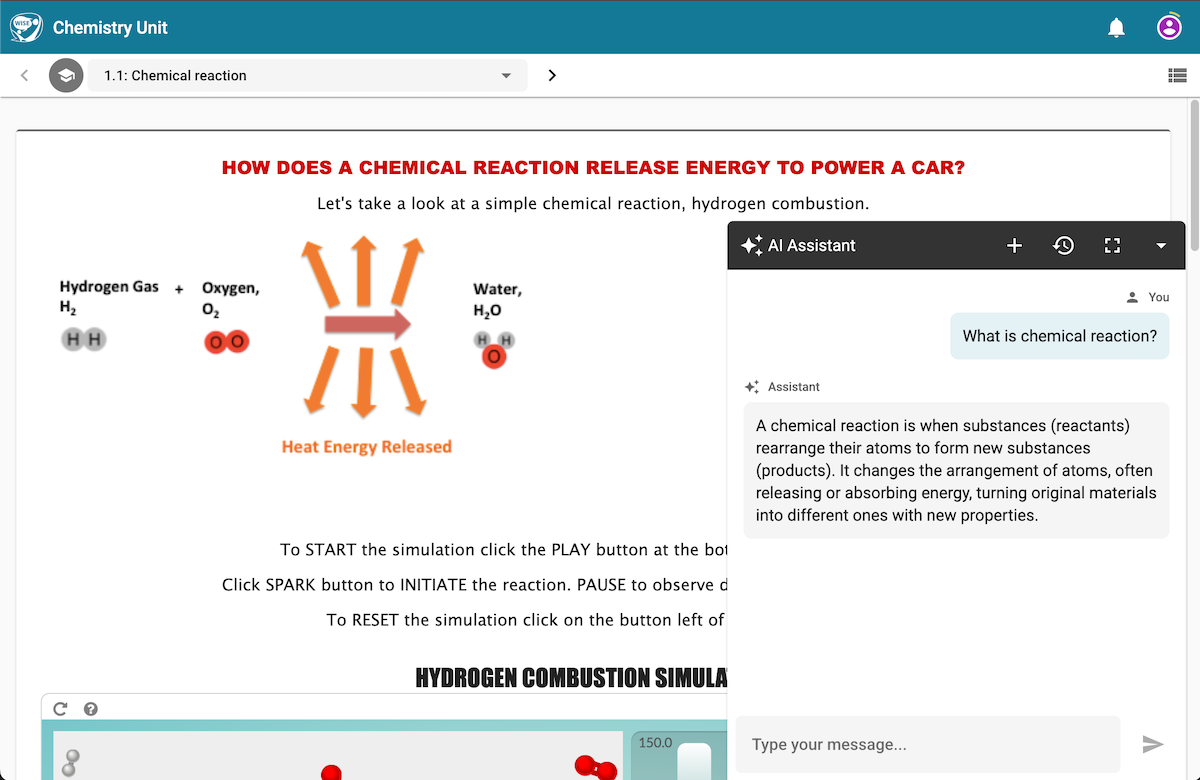
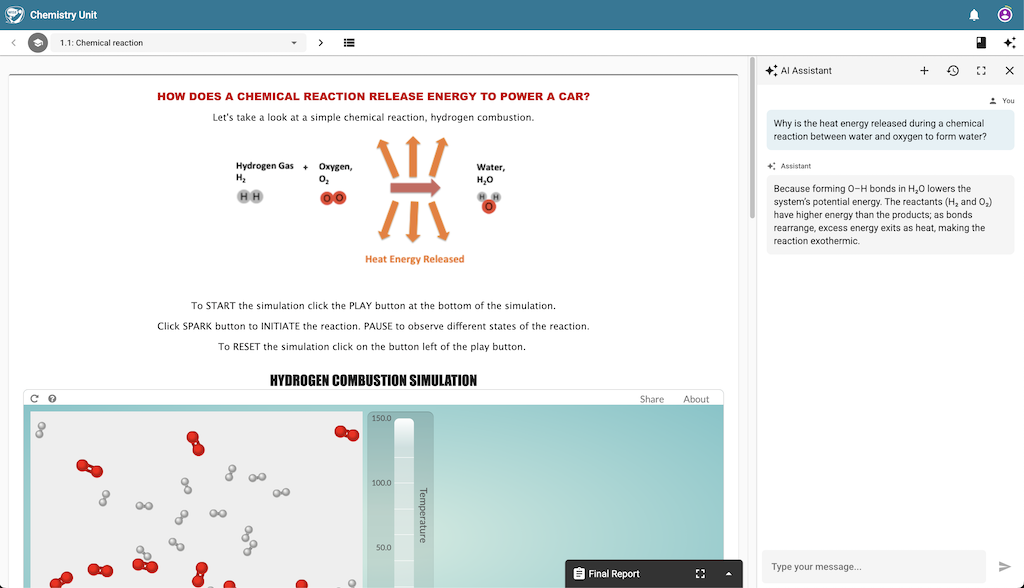
Updated AI Assistant page with new screenshot and text updates

diff --git a/user/feature/ai-assistant/index.md b/user/feature/ai-assistant/index.md
@@ -7,10 +7,10 @@ description: 'Learn how to use the persistent AI Assistant in WISE.'
 
 # Introduction
 
-The WISE AI Assistant is a powerful tool designed to help you navigate your curriculum, brainstorm ideas, and ask questions directly within the platform. The assistant is **persistent** and will be **context-aware** in the future.
+The WISE AI Assistant is a tool designed to help you navigate your curriculum, brainstorm ideas, and ask questions directly within the platform. The assistant is **persistent** and will be **context-aware** in the future.
 
 ![AI Assistant](assistant.png)
-_The AI Assistant is available in the sidebar and can be collapsed and expanded._
+_The AI Assistant is available in the sidebar and can be toggled on and off, and expanded to take up the entire screen._
 
 ## Key Features
 
@@ -18,13 +18,9 @@ _The AI Assistant is available in the sidebar and can be collapsed and expanded.
 
 The assistant is globally available in the sidebar, so you can keep the conversation going as you work on the unit. You can start a new conversation or switch to an existing conversation.
 
-Your chats are automatically saved to your account. This means you can start a conversation on one device and pick it up exactly where you left off on another. You never have to worry about losing your progress or the assistant's previous explanations.
+Your chats are automatically saved to your account. You don't need to worry about losing your progress or the assistant's previous explanations.
 
-### 2. Context Awareness (Future)
-
-The assistant knows which part of the curriculum you are currently working on. When you ask a question, it automatically considers your current step to provide more relevant and helpful guidance.
-
-### 3. Multiple Chat Sessions
+### 2. Multiple Chat Sessions
 
 You can maintain multiple separate conversations. This allows you to:
 
@@ -32,24 +28,34 @@ You can maintain multiple separate conversations. This allows you to:
 - Start a "fresh" conversation for a new lesson or step.
 - Preserve important information in one chat while experimenting in another.
 
-### 4. Smart Title Generation
+### 3. Smart Title Generation
 
 After your first few messages, the assistant automatically generates a concise, relevant title for your chat (e.g., "Photosynthesis Discussion" or "Bridge Design Help"). This makes it easy to find specific conversations in your history.
 
-### 5. Flexible Interface
+### 4. Flexible Interface
 
 The chatbot can be used in two modes:
 
 - **Sidebar Mode:** Keep the chat open on the side while you work on your curriculum.
 - **Fullscreen Mode:** Expand the chat to focus entirely on your conversation with the AI.
 
+It will also work on small screens like mobile devices.
+
+### 5. Context Awareness (Planned for future release)
+
+The assistant knows which part of the curriculum you are currently working on. When you ask a question, it automatically considers your current step to provide more relevant and helpful guidance.
+
 ---
 
-## How to Use the Chatbot
+## How to Use the Assistant
+
+### Opening the Assistant
+
+To open the assistant, click the **"Assistant"** icon in the menu bar. You can close the assistant by clicking on this icon again or by clicking the **"X"** icon in the top-right corner.
 
 ### Starting a New Chat
 
-To start a fresh conversation, click the **"New Chat"** icon or create one through the **Chat History** dialog. The assistant will start with a system prompt tailored to the WISE project you are in.
+To start a fresh conversation, click the **"New Chat"** icon. The assistant will start with a system prompt tailored to the WISE unit that you are currently working on.
 
 ### Viewing Chat History
 
@@ -63,5 +69,4 @@ Click the **"History"** icon to open a list of all your previous conversations. 
 
 ### Managing Layout
 
-- Use the **Minimize/Maximize** buttons to toggle between the sidebar and the main curriculum view.
 - Use the **Fullscreen** button to expand the chat window for better readability during long discussions.
